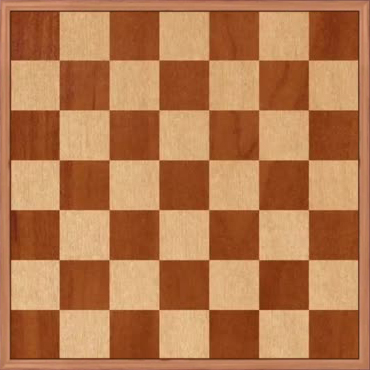
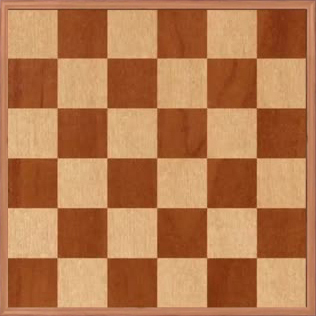
Changed some things regarding layout - found some bugs - changed 6x6board because it was actually 7x7 (oops) - attempted to work with game rules

diff --git a/WindowsFormsApp1/MainForm.cs b/WindowsFormsApp1/MainForm.cs
@@ -7,6 +7,7 @@ using System.Linq;
 using System.Text;
 using System.Threading.Tasks;
 using System.Windows.Forms;
+using Ex05.Ex02.Logic;
 
 namespace Ex05.Damka
 {
@@ -22,9 +23,8 @@ namespace Ex05.Damka
         private Image blackPiece;
         private PictureBox gameBoard;
         private Image blackKing;
-        private FormLogin formLogin;
-
-
+        private FormLogin formLogin = new FormLogin();
+        private GameRules m_GameRules = new GameRules();
 
         public MainForm()
         {
@@ -33,72 +33,72 @@ namespace Ex05.Damka
 
         public PictureBox GameBoard { get => gameBoard; set => gameBoard = value; }
         public Image BoardImage { get => BoardImage; set => BoardImage = value; }
+        public GameRules GameRules { get => m_GameRules; set => m_GameRules = value; }
 
         private void InitializeComponent()
         {
-            this.playerOne = new System.Windows.Forms.Label();
-            this.scorePlayer1 = new System.Windows.Forms.Label();
-            this.scorePlayer2 = new System.Windows.Forms.Label();
-            this.playerTwo = new System.Windows.Forms.Label();
-            this.gameBoard = new System.Windows.Forms.PictureBox();
+            this.playerOne = new Label();
+            this.scorePlayer1 = new Label();
+            this.scorePlayer2 = new Label();
+            this.playerTwo = new Label();
+            this.gameBoard = new PictureBox();
             this.SuspendLayout();
+
+            //Creates Board size
+            setSizeOfBoard();
             // 
             // playerOne
             // 
             this.playerOne.AutoSize = true;
-            this.playerOne.Location = new System.Drawing.Point(113, 44);
-            this.playerOne
+            this.playerOne.Text = GameRules.PlayerOne.PlayerName;
+            this.playerOne.BackColor = Color.Cyan;
+            this.playerOne.Top = 12;
+            this.playerOne.Left = 12;
             this.playerOne.Name = "playerOne";
-            this.playerOne.Size = new System.Drawing.Size(48, 13);
-            this.playerOne.TabIndex = 0;
-            this.playerOne.Text = "Player 1:";
             // 
             // scorePlayer1
             // 
             this.scorePlayer1.AutoSize = true;
-            this.scorePlayer1.Location = new System.Drawing.Point(167, 44);
+            this.scorePlayer1.BackColor = Color.Yellow;
+            this.scorePlayer1.Top = 12;
+            this.scorePlayer1.Left = this.playerOne.Right + 12;
             this.scorePlayer1.Name = "scorePlayer1";
-            this.scorePlayer1.Size = new System.Drawing.Size(13, 13);
-            this.scorePlayer1.TabIndex = 1;
             this.scorePlayer1.Text = "0";
             // 
-            // scorePlayer2
+            // gameBoard
             // 
-            this.scorePlayer2.AutoSize = true;
-            this.scorePlayer2.Location = new System.Drawing.Point(401, 44);
-            this.scorePlayer2.Name = "scorePlayer2";
-            this.scorePlayer2.Size = new System.Drawing.Size(13, 13);
-            this.scorePlayer2.TabIndex = 3;
-            this.scorePlayer2.Text = "0";
+            this.gameBoard.Left = 12;
+            this.gameBoard.Top = this.playerOne.Bottom + 12;
+            this.gameBoard.Size = this.gameBoard.Image.Size;
+            this.gameBoard.Name = "gameBoard";
             // 
             // playerTwo
             // 
             this.playerTwo.AutoSize = true;
-            this.playerTwo.Location = new System.Drawing.Point(347, 44);
+            this.playerTwo.Top = 12;
+            this.playerTwo.BackColor = Color.Green;
+            this.playerTwo.Left = ClientSize.Width - 24 - this.playerTwo.Width;
             this.playerTwo.Name = "playerTwo";
             this.playerTwo.Size = new System.Drawing.Size(48, 13);
             this.playerTwo.TabIndex = 2;
-            this.playerTwo.Text = "Player 2:";
+            this.playerTwo.Text = GameRules.PlayerTwo.PlayerName;
             // 
-            // gameBoard
+            // scorePlayer2
             // 
-
-            //this.gameBoard.Location = new System.Drawing.Point(93, 118);
-            this.gameBoard.Left = 12;
-            this.gameBoard.Top = this.playerOne.Bottom + 12; 
-            this.gameBoard.Name = "gameBoard";
-            this.gameBoard.Size = new System.Drawing.Size(371, 371);
-            this.gameBoard.TabIndex = 4;
-            this.gameBoard.TabStop = false;
+            this.scorePlayer2.AutoSize = true;
+            this.scorePlayer2.Top = 12;
+            this.scorePlayer2.Left = ClientSize.Width - 12;
+            this.scorePlayer2.Name = "scorePlayer2";
+            this.scorePlayer2.Text = "0";
             // 
             // MainForm
             // 
-            this.ClientSize = new System.Drawing.Size(561, 591);
-            this.Controls.Add(this.gameBoard);
-            this.Controls.Add(this.scorePlayer2);
-            this.Controls.Add(this.playerTwo);
-            this.Controls.Add(this.scorePlayer1);
             this.Controls.Add(this.playerOne);
+            this.Controls.Add(this.scorePlayer1);
+            this.Controls.Add(this.gameBoard);
+            this.Controls.Add(this.playerTwo);
+            this.Controls.Add(this.scorePlayer2);
+            
             this.Name = "MainForm";
             this.StartPosition = System.Windows.Forms.FormStartPosition.CenterScreen;
             this.Text = "Damka";
@@ -111,10 +111,8 @@ namespace Ex05.Damka
 
         private void MainForm_Load(object sender, EventArgs e)
         {
-            formLogin = new FormLogin();
             formLogin.Owner = this;
             formLogin.ShowDialog();
-            setSizeOfBoard();
         }
 
         private void InitiateImages()
@@ -127,23 +125,23 @@ namespace Ex05.Damka
         }
         private void setSizeOfBoard()
         {
+            // THis is always true for some reason - Will always load 6x6 board
             if (formLogin.RadioButton6.Checked)
             {
                 this.GameBoard.Image = global::WindowsFormsApp1.Properties.Resources._6x6board;
-                this.ClientSize = new Size(396, playerOne.Bottom + gameBoard.Bottom + 24);
             }
 
             else if (formLogin.RadioButton8.Checked)
             {
                 this.GameBoard.Image = global::WindowsFormsApp1.Properties.Resources._8x8board;
-                this.ClientSize = new Size(455, 455);
             }
 
             else if (formLogin.RadioButton10.Checked)
             {
                 this.GameBoard.Image = global::WindowsFormsApp1.Properties.Resources._10x10board;
-                this.ClientSize = new Size(564, 564);
             }
+
+            this.ClientSize = new Size(gameBoard.Image.Width + 24, gameBoard.Image.Height + 36 + this.playerOne.Height);
         }
     }
 }

diff --git a/WindowsFormsApp1/FormLogin.cs b/WindowsFormsApp1/FormLogin.cs
@@ -27,6 +27,8 @@ namespace Ex05.Damka
         public RadioButton RadioButton6 { get => radioButton6; set => radioButton6 = value; }
         public RadioButton RadioButton8 { get => radioButton8; set => radioButton8 = value; }
         public RadioButton RadioButton10 { get => radioButton10; set => radioButton10 = value; }
+        public TextBox TextBoxPlayerOne { get => textBoxPlayerOne; set => textBoxPlayerOne = value; }
+        public TextBox TextBoxPlayerTwo { get => textBoxPlayerTwo; set => textBoxPlayerTwo = value; }
 
         public FormLogin()
         {
@@ -41,8 +43,8 @@ namespace Ex05.Damka
             this.radioButton10 = new System.Windows.Forms.RadioButton();
             this.players = new System.Windows.Forms.Label();
             this.playerOne = new System.Windows.Forms.Label();
-            this.textBoxPlayerOne = new System.Windows.Forms.TextBox();
-            this.textBoxPlayerTwo = new System.Windows.Forms.TextBox();
+            this.TextBoxPlayerOne = new System.Windows.Forms.TextBox();
+            this.TextBoxPlayerTwo = new System.Windows.Forms.TextBox();
             this.playerTwo = new System.Windows.Forms.CheckBox();
             this.buttonDone = new System.Windows.Forms.Button();
             this.SuspendLayout();
@@ -115,21 +117,21 @@ namespace Ex05.Damka
             // 
             // textBoxPlayerOne
             // 
-            this.textBoxPlayerOne.Location = new System.Drawing.Point(147, 91);
-            this.textBoxPlayerOne.Name = "textBoxPlayerOne";
-            this.textBoxPlayerOne.Size = new System.Drawing.Size(152, 20);
-            this.textBoxPlayerOne.TabIndex = 6;
-            this.textBoxPlayerOne.TextChanged += new System.EventHandler(this.textBoxPlayerOne_TextChanged);
+            this.TextBoxPlayerOne.Location = new System.Drawing.Point(147, 91);
+            this.TextBoxPlayerOne.Name = "textBoxPlayerOne";
+            this.TextBoxPlayerOne.Size = new System.Drawing.Size(152, 20);
+            this.TextBoxPlayerOne.TabIndex = 6;
+            this.TextBoxPlayerOne.TextChanged += new System.EventHandler(this.textBoxPlayerOne_TextChanged);
             // 
             // textBoxPlayerTwo
             // 
-            this.textBoxPlayerTwo.Enabled = false;
-            this.textBoxPlayerTwo.Text = "Computer";
-            this.textBoxPlayerTwo.Location = new System.Drawing.Point(147, 135);
-            this.textBoxPlayerTwo.Name = "textBoxPlayerTwo";
-            this.textBoxPlayerTwo.Size = new System.Drawing.Size(152, 20);
-            this.textBoxPlayerTwo.TabIndex = 8;
-            this.textBoxPlayerTwo.TextChanged += new System.EventHandler(this.textBoxPlayerTwo_TextChanged);
+            this.TextBoxPlayerTwo.Enabled = false;
+            this.TextBoxPlayerTwo.Text = "Computer";
+            this.TextBoxPlayerTwo.Location = new System.Drawing.Point(147, 135);
+            this.TextBoxPlayerTwo.Name = "textBoxPlayerTwo";
+            this.TextBoxPlayerTwo.Size = new System.Drawing.Size(152, 20);
+            this.TextBoxPlayerTwo.TabIndex = 8;
+            this.TextBoxPlayerTwo.TextChanged += new System.EventHandler(this.textBoxPlayerTwo_TextChanged);
             // 
             // playerTwo
             // 
@@ -156,9 +158,9 @@ namespace Ex05.Damka
             // 
             this.ClientSize = new System.Drawing.Size(320, 210);
             this.Controls.Add(this.buttonDone);
-            this.Controls.Add(this.textBoxPlayerTwo);
+            this.Controls.Add(this.TextBoxPlayerTwo);
             this.Controls.Add(this.playerTwo);
-            this.Controls.Add(this.textBoxPlayerOne);
+            this.Controls.Add(this.TextBoxPlayerOne);
             this.Controls.Add(this.playerOne);
             this.Controls.Add(this.players);
             this.Controls.Add(this.radioButton10);
@@ -217,14 +219,14 @@ namespace Ex05.Damka
 
         private void playerTwo_CheckedChanged(object sender, EventArgs e)
         {
-            if (textBoxPlayerTwo.Enabled == false)
+            if (TextBoxPlayerTwo.Enabled == false)
             {
-                textBoxPlayerTwo.Enabled = true;
-                textBoxPlayerTwo.Text = string.Empty;
+                TextBoxPlayerTwo.Enabled = true;
+                TextBoxPlayerTwo.Text = string.Empty;
             } else
             {
-                textBoxPlayerTwo.Enabled = false;
-                textBoxPlayerTwo.Text = "Computer";
+                TextBoxPlayerTwo.Enabled = false;
+                TextBoxPlayerTwo.Text = "Computer";
             }
         }
         private void FormLogin_FormClosing(object sender, FormClosingEventArgs e)
@@ -248,7 +250,7 @@ namespace Ex05.Damka
 
         private void buttonDone_Click(object sender, EventArgs e)
         {
-            if (textBoxPlayerOne.Text == string.Empty)
+            if (TextBoxPlayerOne.Text == string.Empty)
             {
                 MessageBox.Show("Please add a name for Player One");
             }
@@ -268,19 +270,19 @@ namespace Ex05.Damka
         {
             Player playerOne = new Player
             {
-                PlayerName = textBoxPlayerOne.Text,
+                PlayerName = TextBoxPlayerOne.Text,
                 TypeOfPiece = 0
             };
             GameRules.PlayerOne = playerOne;
             GameRules.GameIsOff = false;
             GameRules.IsPlayerOneGame = true;
             GameRules.SizeOfGameBoard = getSizeOfBoard();
-            GameRules.AgainstPlayerTwo = textBoxPlayerTwo.Enabled;
+            GameRules.AgainstPlayerTwo = TextBoxPlayerTwo.Enabled;
             if (GameRules.AgainstPlayerTwo)
             {
                 Player playerTwo = new Player
                 {
-                    PlayerName = textBoxPlayerTwo.Text,
+                    PlayerName = TextBoxPlayerTwo.Text,
                     TypeOfPiece = 1
                 };
                 GameRules.PlayerTwo = playerTwo;
